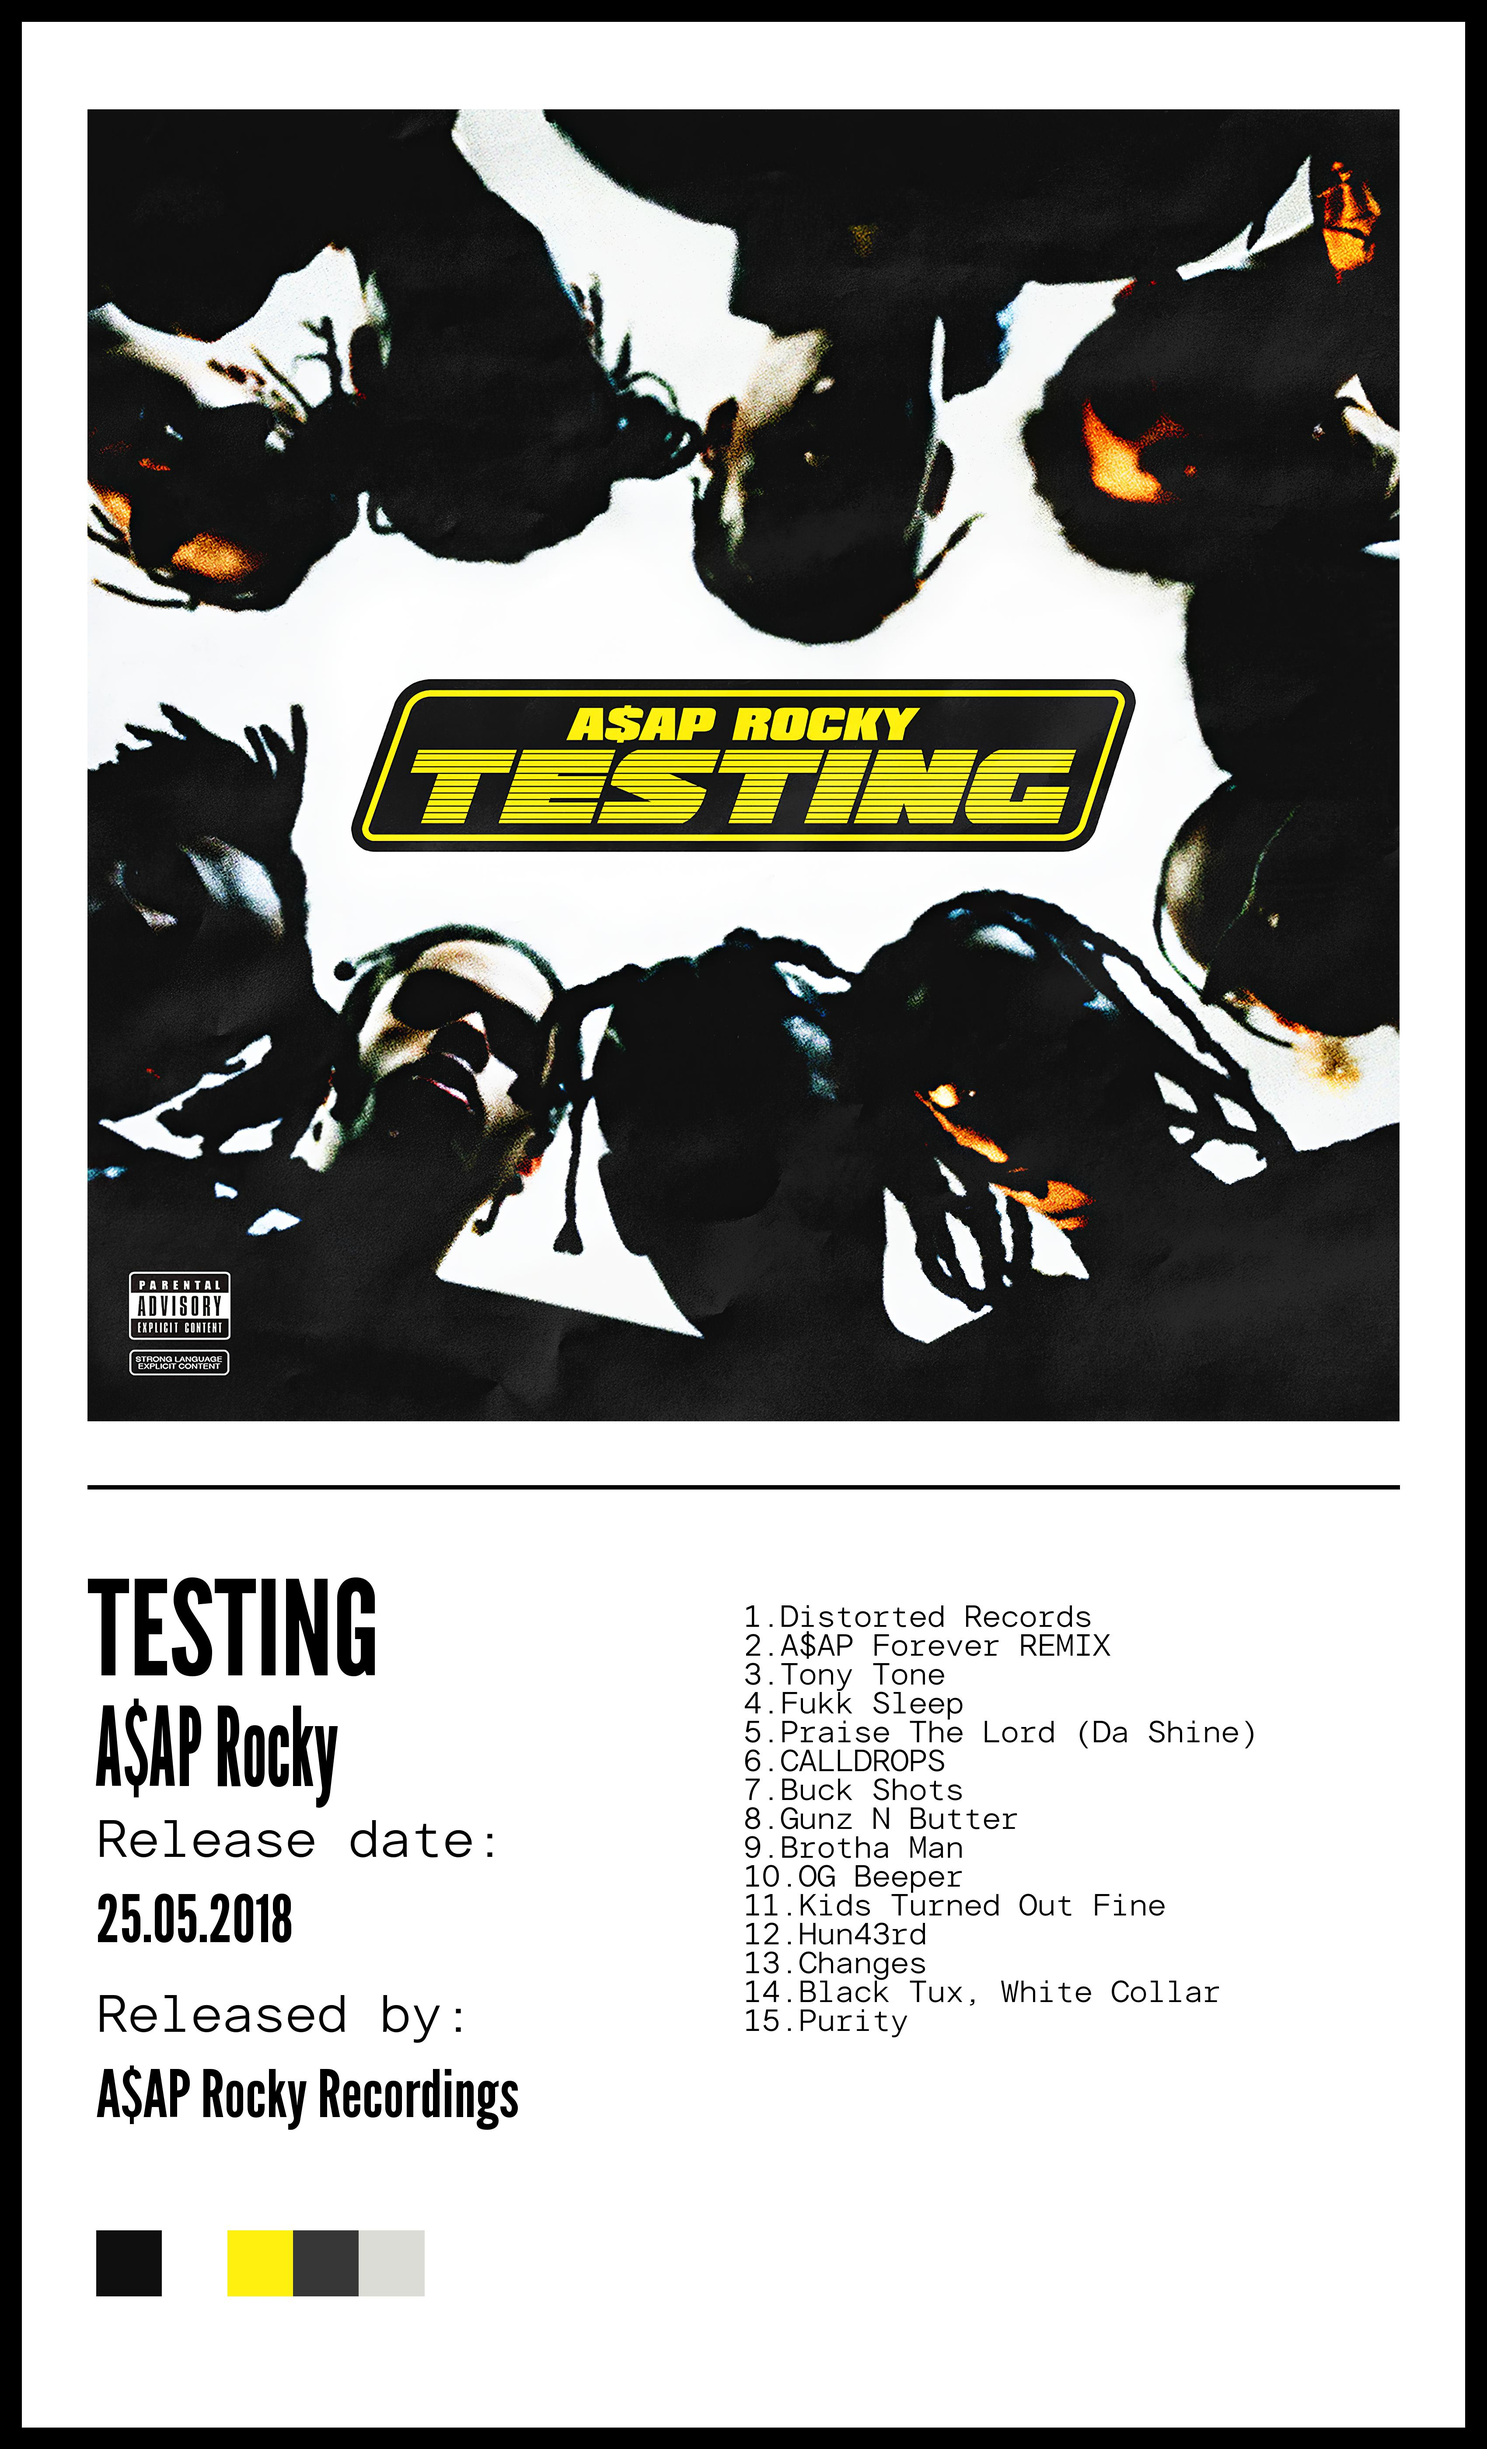
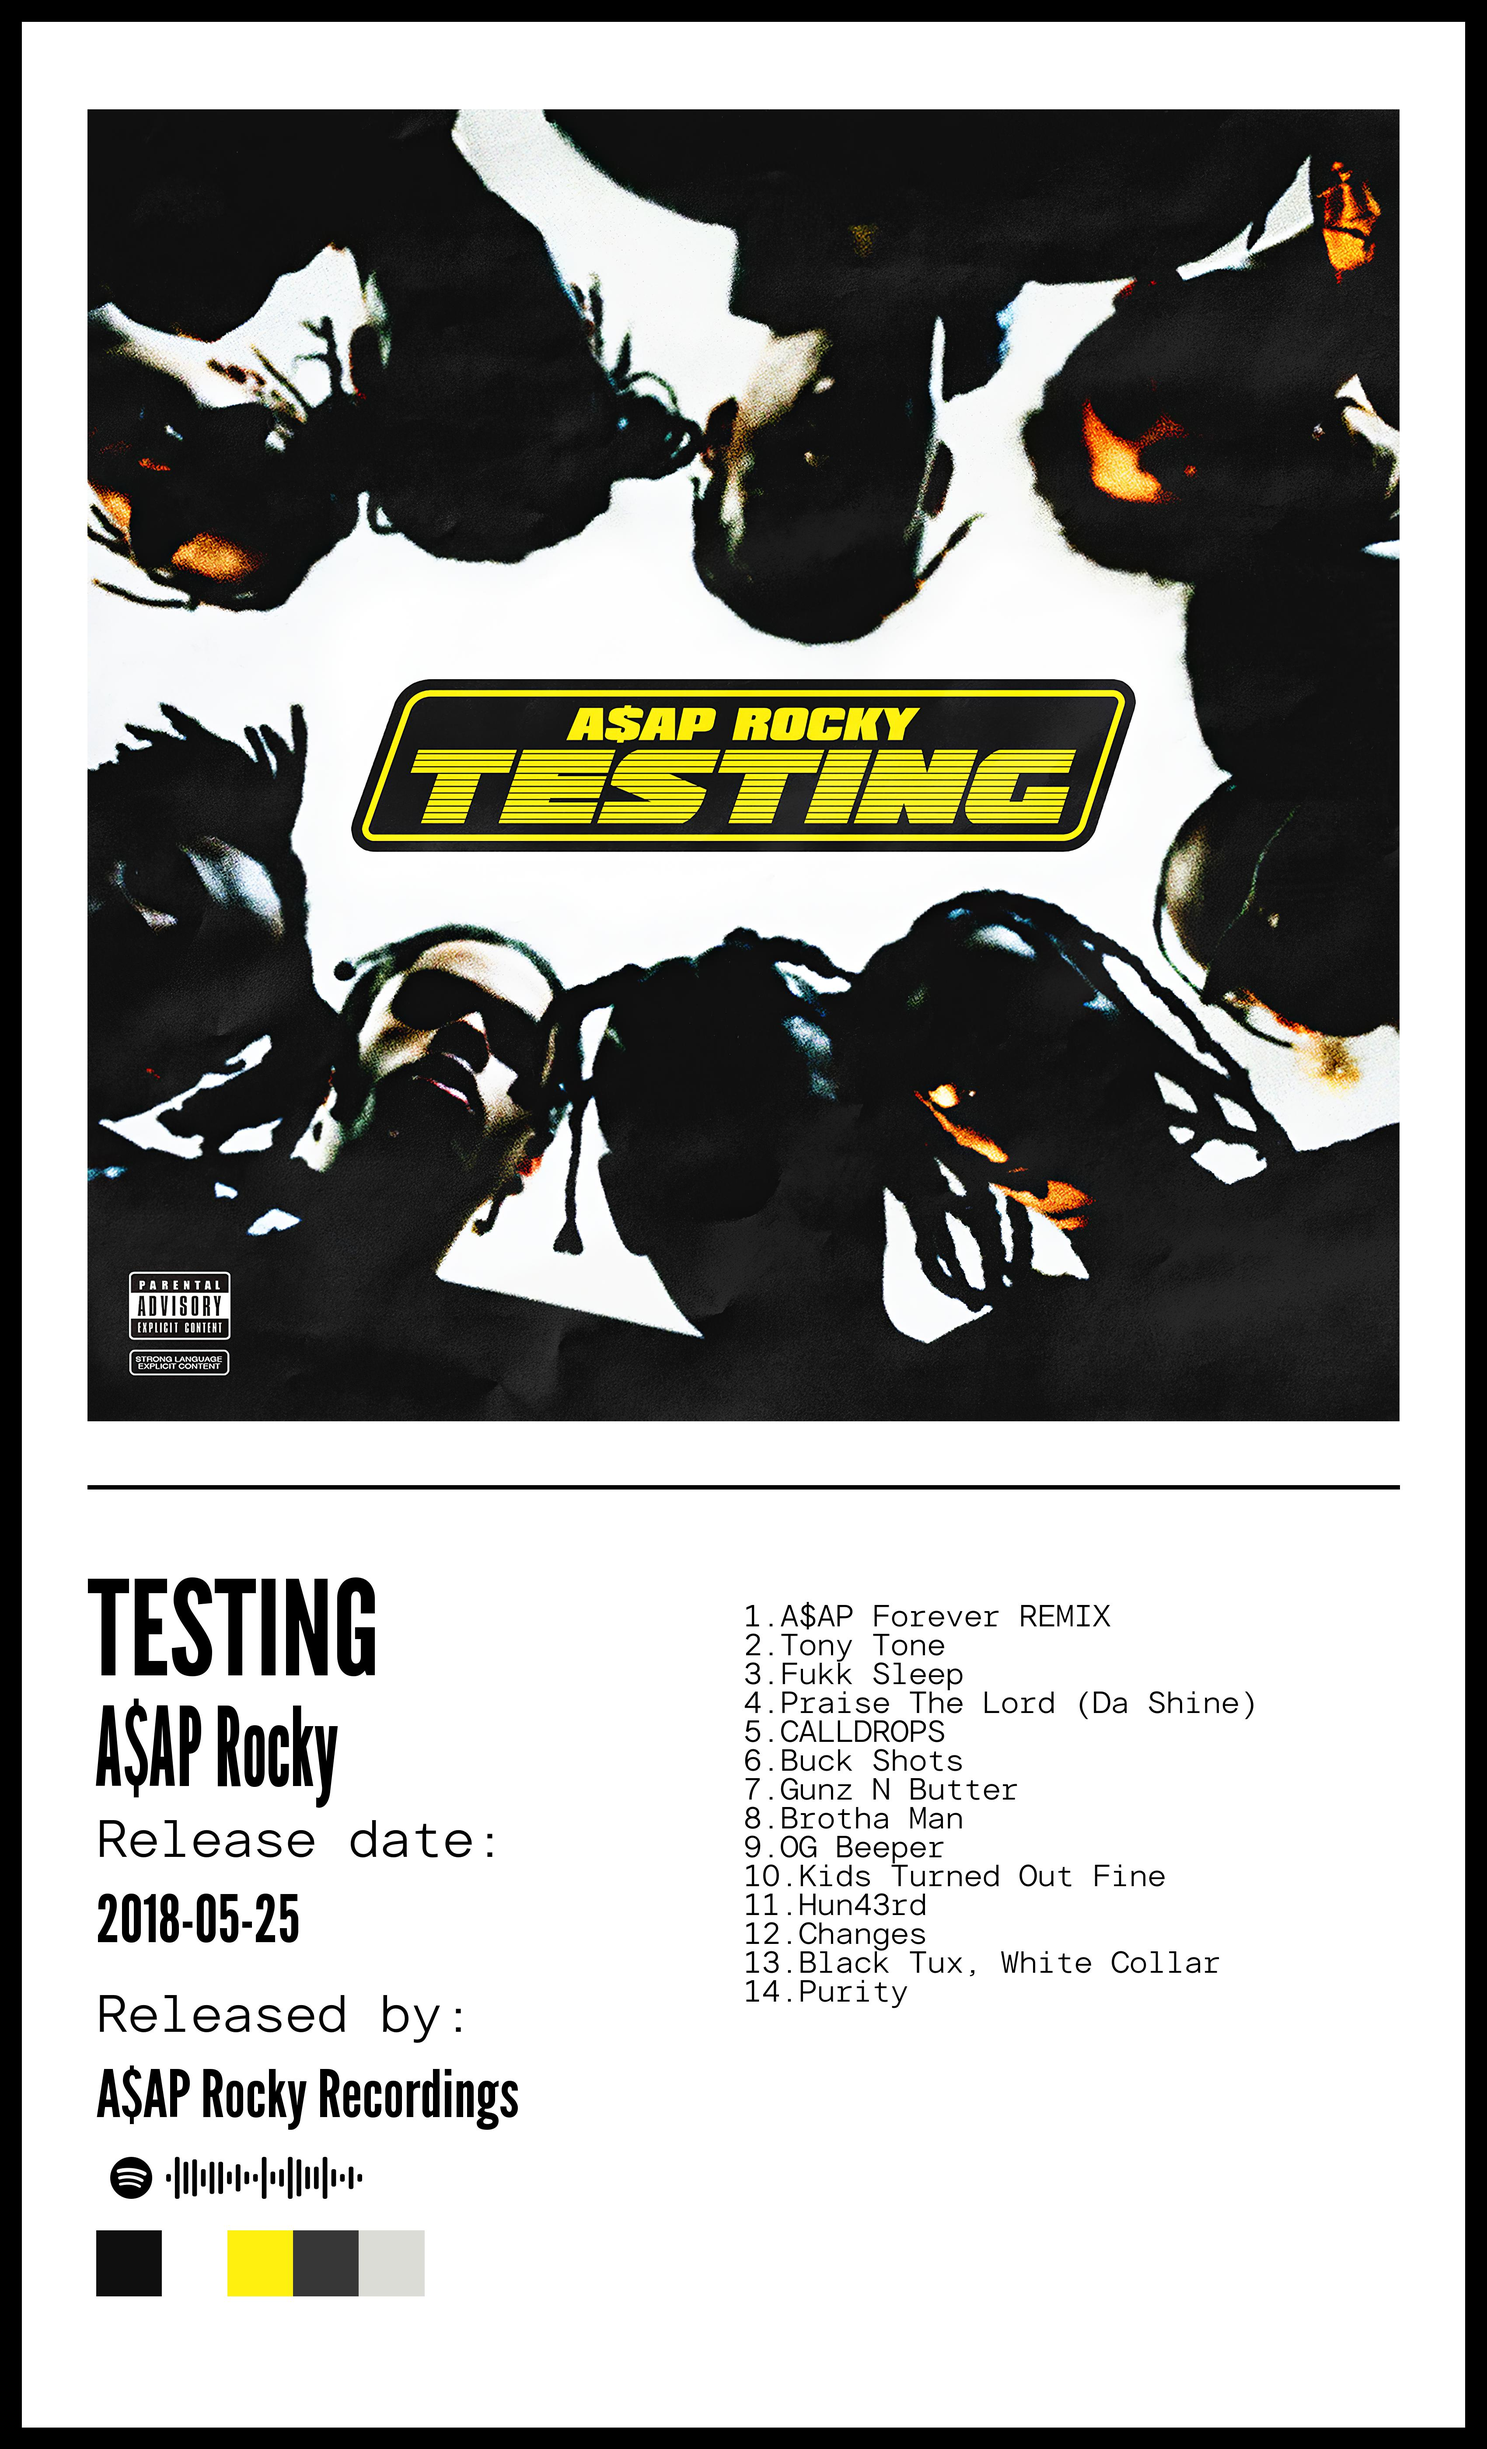
cleared messy code

diff --git a/main.py b/main.py
@@ -4,6 +4,75 @@ import PIL
 from collections import Counter
 import spotipy
 from spotipy.oauth2 import SpotifyClientCredentials
+import requests
+
+#   SPOTIFY API
+
+file_auth_manager = open('auth_manager.txt', 'r')
+for i in file_auth_manager:
+    x = i.split(sep=';')
+auth_manager = SpotifyClientCredentials(x[0], x[1])
+sp = spotipy.Spotify(auth_manager=auth_manager)
+
+# name
+artist_name = "a$ap rocky" #    input("Artist name: ") #a$ap rocky, travis scott
+q = "artist:<"+artist_name+">"
+a = sp.search(q=q, type='artist', limit=1)
+artist_uri = a['artists']['items'][0]['id']
+
+b = sp.artist(artist_uri)
+artist_name = b['name']# overwriting artist's name
+print("artist's name :", artist_name)
+print("artist's id   :", artist_uri)
+
+# album
+
+def Label(s: str):
+    if "record" in s.lower():
+        ind = s.lower().index("record")
+        for i in range(ind, len(s)):
+            if s[i] == " ":
+                ind = i
+                break
+        s = s[:ind]
+    for i in range(len(s)-3):
+        try:
+            if 2030>=int(s[i:i+4])>=1000:
+                s=s[i+5:]
+                break
+        except ValueError:
+            pass
+    return s
+
+
+
+
+album_name = "testing" #    input("Album name: ") #testing, utopia
+q = "album:<"+album_name+">"+" "+"artist:<"+artist_name+">"
+c = sp.search(q=q, type='album', limit=1)
+album_id = c['albums']['items'][0]['id']
+d = sp.album(album_id=album_id)
+album_name = d['name']
+released_by = d['copyrights'][0]['text']
+print("album's name  :", album_name)
+print("album's id    :", album_id)
+print("released by   :", Label(released_by))
+
+# released date
+released_date = c['albums']['items'][0]['release_date']
+print("released date :", released_date)
+
+# tracks
+album_tracks_data = sp.album_tracks(album_id=album_id,market="US", limit=50)
+
+print("tracklist     :", end=" ")
+tracklist = []
+for count, x in enumerate(album_tracks_data['items'], 1):
+    if count > 1:
+        tracklist.append(x['name'])
+        print("               ", count, x['name'])
+        continue
+    print(count, x['name'], " ")
 
 #   BASE - convert
 
@@ -33,12 +102,12 @@ draw.line(((200, 3400), (3200, 3400)), fill=(0, 0, 0), width=10)
 #   TEXT - album title
 
 title_font = ImageFont.truetype(r'LeagueGothic-Regular.ttf', size=300)
-draw.text((200, 3550), "TESTING", fill=(0, 0, 0), font=title_font, spacing=10)
+draw.text((200, 3550), album_name, fill=(0, 0, 0), font=title_font, spacing=10)
 
 #   TEXT - artist nickname
 
 artist_font = ImageFont.truetype(r'LeagueGothic-CondensedRegular.ttf', 250)
-draw.text((220, 3850),"A$AP Rocky", fill=(0,0,0), font=artist_font, spacing=10)
+draw.text((220, 3850),artist_name, fill=(0,0,0), font=artist_font, spacing=10)
 
 #   TEXT - release date
 
@@ -48,7 +117,7 @@ draw.text((220,4150), "Release date:", fill=(0,0,0), font=release_date_font, spa
 #   TEXT - date
 
 date_font = ImageFont.truetype(r'LeagueGothic-Regular.ttf', 150)
-draw.text((220,4300), "25.05.2018", fill=(0,0,0), font=date_font, spacing=0)
+draw.text((220,4300), released_date, fill=(0,0,0), font=date_font, spacing=0)
 
 #   TEXT - released by
 
@@ -62,7 +131,15 @@ draw.text((220,4700), "A$AP Rocky Recordings", fill=(0,0,0), font=label, spacing
 
 #   SPOTIFY
 
-#spotify code here
+def fetch_image(url):
+    img_data = requests.get(url).content
+    with open('spotify_code.jpg', 'wb') as handler:
+        handler.write(img_data)
+
+url = "https://scannables.scdn.co/uri/plain/jpeg/FFFFFF/black/640/spotify:album:"+album_id
+fetch_image(url)
+spotify_code = Image.open('spotify_code.jpg')
+img_final.paste(spotify_code, (220, 4900))
 
 #   COLORS
 
@@ -104,39 +181,7 @@ def featstrip(s: str):
         return s_
     return s
 
-file_auth_manager = open('auth_manager.txt', 'r')
-for i in file_auth_manager:
-    x = i.split(sep=';')
-auth_manager = SpotifyClientCredentials(x[0], x[1])
-sp = spotipy.Spotify(auth_manager=auth_manager)
-
-artist_name = "a$ap rocky"
-q_ = "artist:<"+artist_name+">"
-a = sp.search(q=q_, type='artist', limit=1)
-print("artist's id   :", a['artists']['items'][0]['id'])
-
-album_name = "testing"
-q_2 = "album:<"+album_name+">"
-b = sp.search(q=q_2, type='album', limit=1)
-
-album_id = b['albums']['items'][0]['id']
-released_date = b['albums']['items'][0]['release_date']
-
-print("album's id    :", album_id)
-print("released date :", released_date)
-album_tracks_data = sp.album_tracks(album_id=album_id,market="US", limit=50)
-tracklist = []
-for x in album_tracks_data['items']:
-    tracklist.append(x['name'])
-
-print("tracklist     :")
-print(tracklist)
-print()
 tracklist_font = ImageFont.truetype(r'LTSuperiorMono-Regular.otf', 70)
-
-# for i in range(len(tracklist)):
-#     text = str(i+1)+"."+featstrip(tracklist[i])
-#     draw.text((1400,4150+i*80), text, fill=(0,0,0), font=tracklist_font, spacing=50)
 
 tracklisttextall = ""
 for i in range(len(tracklist)):
